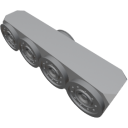
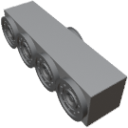
Added Volume component

Changed region(s): [[0.0, 0.0, 1.0, 1.0]]

diff --git a/src/SUMMARY.md b/src/SUMMARY.md
@@ -7,6 +7,7 @@
 # 
 # Gameplay & Mechanics
 - [Game modes](gamemode.md)
+- [Pressurization](pressurization.md)
 #
 #
 - [Tools]()
@@ -28,16 +29,16 @@
 		- [Mini Computer](components/computers/MiniComputer.md)
 		- [Router](components/computers/Router.md)
 		- [Mini Router](components/computers/MiniRouter.md)
-		- [Data Junction](components/computers/DataJunction.md)
 		- [Data Bridge](components/computers/DataBridge.md)
+		- [Data Junction](components/computers/DataJunction.md)
 
 	- [Controllers]()
+		- [Keyboard](components/controllers/Keyboard.md)
+		- [Numpad](components/controllers/Numpad.md)
+		- [Pilot Seat](components/controllers/PilotSeat.md)
 		- [Push Button](components/controllers/PushButton.md)
 		- [Toggle Button](components/controllers/ToggleButton.md)
 		- [Throttle Lever](components/controllers/ThrottleLever.md)
-		- [Numpad](components/controllers/Numpad.md)
-		- [Keyboard](components/controllers/Keyboard.md)
-		- [Pilot Seat](components/controllers/PilotSeat.md)
 
 	- [Energy]()
 		- [Battery]()
@@ -51,8 +52,8 @@
 			- [Low Voltage Relay](components/energy/junctionRelayConverter/LowVoltageRelay.md)
 			- [High Voltage Relay](components/energy/junctionRelayConverter/HighVoltageRelay.md)
 			- [Power Converter](components/energy/junctionRelayConverter/PowerConverter.md)
-		- [Solar Panel](components/energy/SolarPanel.md)
 		- [RTG](components/energy/RTG.md)
+		- [Solar Panel](components/energy/SolarPanel.md)
 
 	- [Fluids]()
 		- [Fluid Tanks]()
@@ -63,71 +64,72 @@
 			- [Small Turbo Pump](components/fluids/fluidPump/SmallTurboPump.md)
 			- [Big Turbo Pump](components/fluids/fluidPump/BigTurboPump.md)
 		- [Electrolyser](components/fluids/Electrolyser.md)
-		- [Sabatier Reactor](components/fluids/SabatierReactor.md)
-		- [Fluid Junction](components/fluids/FluidJunction.md)
 		- [Fluid Bridge](components/fluids/FluidBridge.md)
+		- [Fluid Junction](components/fluids/FluidJunction.md)
 		- [Fluid Port](components/fluids/FluidPort.md)
 		- [Fluid Valve](components/fluids/FluidValve.md)
+		- [Sabatier Reactor](components/fluids/SabatierReactor.md)
+		- [Volume](components/fluids/Volume.md)
 
 	- [Items]()
-		- [Item Junction](components/items/ItemJunction.md)
-		- [Item Conveyor](components/items/ItemConveyor.md)
 		- [Item Bridge](components/items/ItemBridge.md)
+		- [Item Conveyor](components/items/ItemConveyor.md)
+		- [Item Junction](components/items/ItemJunction.md)
 	
 	- [Mining]()
+		- [Crusher](components/mining/Crusher.md)
 		- [Mining Drill](components/mining/MiningDrill.md)
 		- [Ore Scanner](components/mining/OreScanner.md)
-		- [Crusher](components/mining/Crusher.md)
 
 	- [Navigation]()
-		- [Nav Instrument](components/navigation/NavInstrument.md)
 		- [Beacon](components/navigation/Beacon.md)
+		- [Nav Instrument](components/navigation/NavInstrument.md)
 		- [Terrain Scanner](components/navigation/TerrainScanner.md)
 
 	- [Propulsion]()
 		- [Thrusters]()
 			- [Small Thruster](components/propulsion/thruster/SmallThruster.md)
 			- [Big Thruster](components/propulsion/thruster/BigThruster.md)
-		- [RCS](components/propulsion/RCS.md)
-		- [Big Wheel](components/propulsion/BigWheel.md)
-		- [Wheel](components/propulsion/Wheel.md)
 		- [Small Wheel](components/propulsion/SmallWheel.md)
+		- [Wheel](components/propulsion/Wheel.md)
+		- [Big Wheel](components/propulsion/BigWheel.md)
 		- [Propeller](components/propulsion/Propeller.md)
+		- [RCS](components/propulsion/RCS.md)
 
 	- [Sensors]()
 		- [Altitude Sensor](components/sensors/AltitudeSensor.md)
+		- [Angular Velocity Sensor](components/sensors/AngularVelocitySensor.md)
+		- [Density Sensor](components/sensors/DensitySensor.md)
+		- [Linear Velocity Sensor](components/sensors/LinearVelocitySensor.md)
+		- [Solar Sensor](components/sensors/SolarSensor.md)
 		- [Speed Sensor](components/sensors/SpeedSensor.md)
 		- [Tilt Sensor](components/sensors/TiltSensor.md)
-		- [Linear Velocity Sensor](components/sensors/LinearVelocitySensor.md)
-		- [Angular Velocity Sensor](components/sensors/AngularVelocitySensor.md)
 		- [Vehicle Physics Sensor](components/sensors/VehiclePhysicsSensor.md)
-		- [Density Sensor](components/sensors/DensitySensor.md)
-		- [Solar Sensor](components/sensors/SolarSensor.md)
 
 	- [Joints]()
-		- [Small Pivot](components/joints/SmallPivot.md)
 		- [Small Hinge](components/joints/SmallHinge.md)
+		- [Small Pivot](components/joints/SmallPivot.md)
 
 	- [Docking]()
 		- [Dockable Door](components/docking/DockableDoor.md)
 		- [Docking Port](components/docking/DockingPort.md)
 	
 	- [Lights]()
-		- [SpotLight](components/lights/SpotLight.md)
 		- [Lamp](components/lights/Lamp.md)
+		- [SpotLight](components/lights/SpotLight.md)
 
 	- [Storage]()
 		- [Container](components/storage/Container.md)
 		- [Small Container](components/storage/SmallContainer.md)
 
 	- [Miscellaneous]()
-		- [Gyroscope](components/miscellaneous/Gyroscope.md)
-		- [Buzzer](components/miscellaneous/Buzzer.md)
 		- [Aileron](components/miscellaneous/Aileron.md)  
-		- [TrashCan](components/miscellaneous/TrashCan.md)
-		- [Ground Anchor](components/miscellaneous/GroundAnchor.md)
-		- [OwnerPad](components/miscellaneous/OwnerPad.md)
 		- [Crafter](components/miscellaneous/Crafter.md)
+		- [Buzzer](components/miscellaneous/Buzzer.md)
+		- [Ground Anchor](components/miscellaneous/GroundAnchor.md)
+		- [Gyroscope](components/miscellaneous/Gyroscope.md)
+		- [OwnerPad](components/miscellaneous/OwnerPad.md)
+		- [TrashCan](components/miscellaneous/TrashCan.md)
 #
 #
 # XenonCode

diff --git a/src/components/fluids/Volume.md b/src/components/fluids/Volume.md
@@ -1,0 +1,45 @@
+<p align="center">
+  <img src="Volume.png" />
+</p>
+
+|Component|`Volume`|
+|---|---|
+|**Module**|`ARCHEAN_build`|
+|**Mass**|1 kg|
+|[**Size**](# "Based on the component's occupancy in a fixed 25cm grid.")|25 x 50 x 50 cm|
+#
+---
+
+# Description
+The Volume component, when integrated into a build, automatically calculates and delineates the volume of the area where it is positioned. This functionality can be used to:
+- Create custom-shaped fuel tanks.
+- Ensure the pressurization of a cabin for specific environments, such as a submarine, rocket...
+- Design airships...
+- ...
+
+> <font color="green"><strong> This component is related to the pressurization of builds, please refer to the [Pressurization](../../pressurization.md) page for more information.</strong></font>
+
+# Usage
+The Volume is a simple component to use, requiring no special configuration. Just add it to a build and click the `Scan` button to automatically identify the volume of the sealed area in which it is located. It is important to note that it will only determine the volume of the area it is in, not the entire build. You will need to place as many Volume components as there are areas to pressurize.
+
+This component can display two states depending on the tightness of the area:
+- `Airtight`: If the volume is completely sealed, the state turns green to indicate that the area is airtight.
+- `Leak`: If the volume is not or is no longer sealed, the state turns red to indicate that the area is not airtight.
+
+The Volume screen only displays the volume of the sealed area in cubic meters (m³). For more detailed information, you can access its information window by pressing the `V` key. The available data includes:
+- Volume capacity (m³): The total capacity of the sealed volume.
+- Contents Mass (kg): The total mass of the contents present in the volume.
+- Pressure (kPa): The pressure inside the sealed area.
+- Liquid Level (%): The percentage of liquid fill.
+- Composition: The distribution of different fluids as normalized percentages.
+
+In Creative mode, additional buttons appear to allow filling or emptying the volume.
+
+
+### List of outputs
+|Channel|Function|Value|
+|---|---|---|
+|0|Level|0 to 1|
+|1|volume (m³)|number|
+|2|State|text|
+

diff --git a/src/components/controllers/ThrottleLever.md b/src/components/controllers/ThrottleLever.md
@@ -16,14 +16,5 @@ The Throttle Lever is a type of control that constantly sends an analog value be
 # Usage
 The lever is controlled with the mouse by holding the `F` key and moving the `mouse up/down`.
 
->There is resistance in the center of the lever to help find the precise center position.
-
----
-
-### Tip
-You can use a function in a computer to give it a classic accelerator behavior, where the low position returns `0` and the high position returns `1`.
-
-```xc
-; Where `a` is the throttle output
-(a+1)/2
-```
+> - There is resistance in the center of the lever to help find the precise center position.
+> - It is possible to configure the **Min** and **Max** values of the lever, as well as the **snap-to-center** feature from the configuration menu accessible with the `V` key.

diff --git a/src/components/docking/DockableDoor.md b/src/components/docking/DockableDoor.md
@@ -16,6 +16,7 @@ The Dockable Door is a large door that can dock to a similar door to connect two
 
 > - Dockable Doors can only be installed on the face of frames.
 > - The Dockable Door can only be docked to another Dockable Door.
+> - <font color="green"> *This component is related to the pressurization of builds, please refer to the [Pressurization](../../pressurization.md) page for more information.*</font>
 
 # Usage
 To function properly, the Dockable Door needs to be powered via low voltage. It consumes 20 watts when inactive and up to 250 watts when the doors are in motion.

diff --git a/src/components/joints/SmallPivot.md b/src/components/joints/SmallPivot.md
@@ -13,6 +13,8 @@
 # Description
 The Small Pivot is a component that includes a buildable rotating block. It is designed to allow rotation of objects on a build.
 
+> <font color="green"> *This component is related to the pressurization of builds, please refer to the [Pressurization](../../pressurization.md) page for more information.*</font>
+
 # Usage
 The Small Pivot can operate in two modes: Servo (default) and Velocity. To switch between modes, press the V key to open the component's information interface.
 

diff --git a/src/components/joints/SmallHinge.md b/src/components/joints/SmallHinge.md
@@ -13,6 +13,8 @@
 # Description
 The Small Hinge is a component that includes a buildable block on a hinge.
 
+> <font color="green"> *This component is related to the pressurization of builds, please refer to the [Pressurization](../../pressurization.md) page for more information.*</font>
+
 # Usage
 The Small Hinge only operates in servo mode.
 

diff --git a/src/pressurization.md b/src/pressurization.md
@@ -1,0 +1,2 @@
+# Pressurization
+This page is under construction
